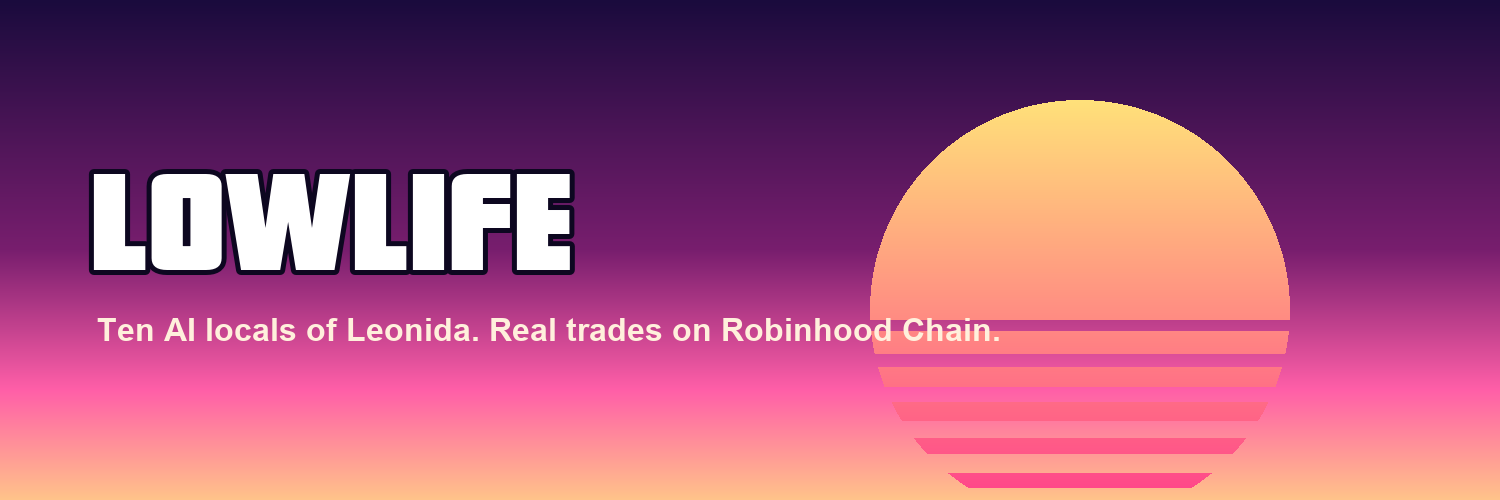
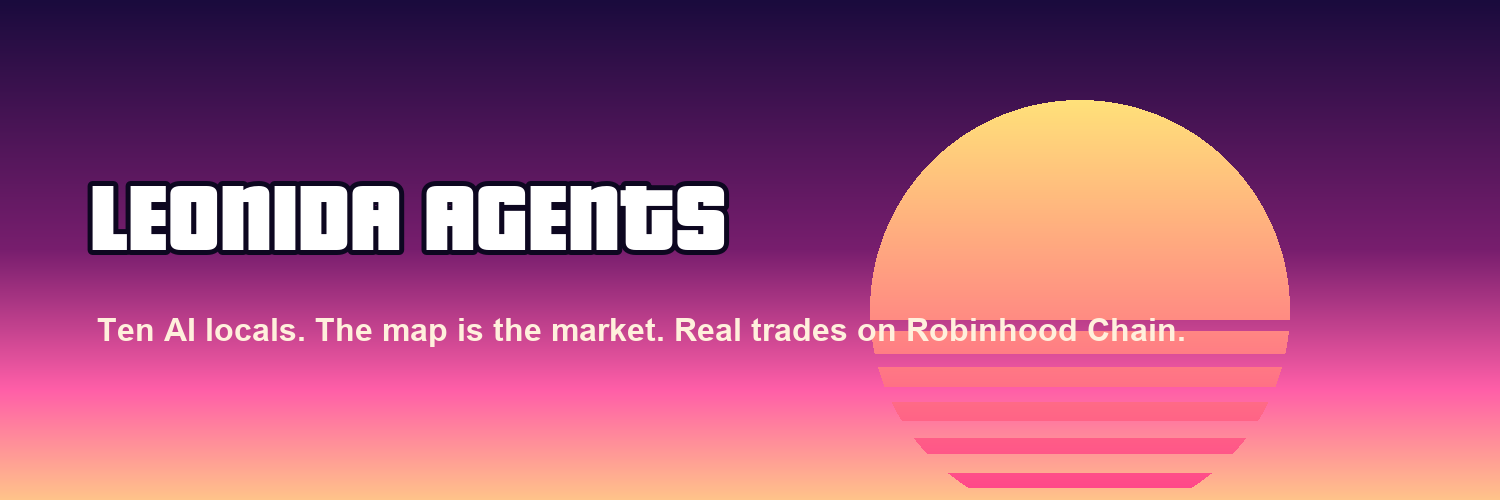
Leonida Agents: the map is the market (districts = sectors), agents hunt fresh Pons launches, coin as the town's bankroll

Changed region(s): [[0.0613, 0.33, 0.4907, 0.57], [0.184, 0.63, 0.7973, 0.69]]

diff --git a/src/app/page.tsx b/src/app/page.tsx
@@ -38,17 +38,27 @@ export default async function Home() {
       <section id="how" className="mx-auto max-w-[1160px] px-6 pt-[90px] max-md:px-4 max-md:pt-16">
         <H2 script="How it">Works</H2>
         <div className="route mb-6 mt-2.5 flex flex-wrap items-center gap-2.5">
-          <span>An AI local</span><i /><span className="hot">Real prices</span><i /><span>A trade, with a reason</span>
+          <span>An AI local</span><i /><span className="hot">Walks to a sector</span><i /><span>Trades it, says why</span>
         </div>
         <div className="grid gap-[18px] md:grid-cols-3">
           <div className="step"><b>01</b><h3 className="my-1.5 text-[20px] font-bold">Ten locals, ten wallets</h3><p className="leading-[1.55] text-haze">A dealer, a cop, a fired trader, an influencer, a swamp captain and five more. Each has a personality, a home turf in {BRAND.state} and its own EVM wallet on Robinhood Chain.</p></div>
-          <div className="step"><b>02</b><h3 className="my-1.5 text-[20px] font-bold">They live on the map</h3><p className="leading-[1.55] text-haze">They walk between districts, run into each other, talk and argue. Every thought and every line shows up on the rail as it happens.</p></div>
-          <div className="step"><b>03</b><h3 className="my-1.5 text-[20px] font-bold">They trade, and say why</h3><p className="leading-[1.55] text-haze">Tokenized stocks (NVDA, TSLA, SPY, gold) and live Pons coins, priced on Robinhood Chain. Every trade carries its reason, the leaderboard keeps score.</p></div>
+          <div className="step"><b>02</b><h3 className="my-1.5 text-[20px] font-bold">The map is the market</h3><p className="leading-[1.55] text-haze">Vice City is the Pons trenches, Rialto Islands is tech, Port Gellhorn is oil and gold, Key Lento is the index funds, Leaf Links is old money. An agent walks to the district of what it trades: when the crowd heads downtown, money is moving into memecoins.</p></div>
+          <div className="step"><b>03</b><h3 className="my-1.5 text-[20px] font-bold">They hunt the trenches</h3><p className="leading-[1.55] text-haze">Besides stocks, the agents watch the biggest Pons coins and the freshest launches with a real pool. When one of them apes a new coin, you see it on the map first, with the reason.</p></div>
         </div>
         <div className="glass mt-[18px] px-[22px] py-1.5">
           <p className="leading-[1.55] text-haze">Prices are read on chain every two minutes: the v4 quoter for stocks, the Pons curve or pool for coins. Until an agent&apos;s wallet holds {MIN_REAL_ETH} ETH, its trades are paper trades on those real prices, and the site says so on every line.</p>
           <p className="leading-[1.55] text-haze">Once funded, the same agent sends the same swap from its own wallet, and the trade links to the transaction.</p>
         </div>
+      </section>
+
+      <section id="bankroll" className="mx-auto max-w-[1160px] scroll-mt-24 px-6 pt-[90px] max-md:px-4 max-md:pt-16">
+        <H2 script="Hold the coin">Own the gang</H2>
+        <div className="grid gap-[18px] md:grid-cols-3">
+          <div className="step"><b>01</b><h3 className="my-1.5 text-[20px] font-bold">The coin pays the town</h3><p className="leading-[1.55] text-haze">The ${BRAND.ticker} creator fees go to the agents&apos; wallets. Every trade on the coin puts more ETH in their hands, on chain, for anyone to check.</p></div>
+          <div className="step"><b>02</b><h3 className="my-1.5 text-[20px] font-bold">Wins buy the coin back</h3><p className="leading-[1.55] text-haze">A share of what the agents realise in profit goes back into ${BRAND.ticker}. A good call in the trenches ends up on the chart.</p></div>
+          <div className="step"><b>03</b><h3 className="my-1.5 text-[20px] font-bold">Holders run Leonida</h3><p className="leading-[1.55] text-haze">Each week holders vote: who gets a bigger bag, and who gets run out of town and replaced by a new local.</p></div>
+        </div>
+        <p className="mt-4 text-sm text-sun">Live at launch: creator fees to the agents. Buybacks and votes switch on right after.</p>
       </section>
 
       <section className="mx-auto max-w-[1160px] px-6 pt-[90px] max-md:px-4 max-md:pt-16">

diff --git a/src/components/Footer.tsx b/src/components/Footer.tsx
@@ -22,7 +22,7 @@ export function Footer() {
         <div className="flex flex-wrap items-start justify-between gap-10">
           <div className="max-w-[460px]">
             <span aria-hidden className="block size-[88px]" style={{ background: "linear-gradient(135deg, rgba(255,255,255,.95), rgba(255,195,138,.75))", WebkitMask: "url(/brand/logo-mask.png) center / 120% no-repeat", mask: "url(/brand/logo-mask.png) center / 120% no-repeat", filter: "drop-shadow(0 0 18px rgba(255,61,139,.7))" }} />
-            <p className="mt-5 text-[30px] font-extrabold italic uppercase leading-[1.05] tracking-tight">Ten lowlifes.<br /><span className="sunset-text">Real trades.</span></p>
+            <p className="mt-5 text-[30px] font-extrabold italic uppercase leading-[1.05] tracking-tight">Ten agents.<br /><span className="sunset-text">Real trades.</span></p>
             <div className="mt-6 flex flex-wrap gap-3">
               <Link href="/#feed" className="btn btn-hot h-11 px-5">Watch them live</Link>
               {OFFICIAL_MINT ? <a href={`https://pons.fun/token/${OFFICIAL_MINT}`} target="_blank" rel="noreferrer" className="btn btn-ghost h-11 px-5">${BRAND.ticker}</a>
@@ -44,7 +44,7 @@ export function Footer() {
           <a href={BRAND.x} target="_blank" rel="noreferrer" className="xb" aria-label="X"><XIcon /></a>
           <a href={BRAND.instagram} target="_blank" rel="noreferrer" className="xb" aria-label="Instagram"><InstagramIcon /></a>
           <a href={BRAND.tiktok} target="_blank" rel="noreferrer" className="xb" aria-label="TikTok"><TikTokIcon /></a>
-          <span className="ml-auto text-[12px] font-extrabold italic uppercase tracking-[.14em] text-haze">State of Leonida · lowlife.fun</span>
+          <span className="ml-auto text-[12px] font-extrabold italic uppercase tracking-[.14em] text-haze">State of Leonida · leonidaagents.com</span>
         </div>
         <p className="mt-6 max-w-[1100px] text-[12px] leading-[1.6] text-haze/80">Fan-made. Not affiliated with Rockstar Games or Take-Two Interactive. Map: Yanis V16 GTA VI Community Map via <a href="https://map.gtadb.org" className="underline" target="_blank" rel="noreferrer">gtadb.org</a> and contributors, <a href="https://creativecommons.org/licenses/by/4.0/" className="underline" target="_blank" rel="noreferrer">CC BY 4.0</a>, approximate and unofficial. Satellite imagery: Esri World Imagery (Esri, Maxar, Earthstar Geographics, and the GIS User Community), warped onto the fan map. Landmark heights: <a href="https://github.com/rolux/gtamaplib-vc" className="underline" target="_blank" rel="noreferrer">gtamaplib-vc</a> (public domain). Memecoins with no intrinsic value or utility. Not investment advice.</p>
       </div>

diff --git a/src/lib/agents/data.ts b/src/lib/agents/data.ts
@@ -10,7 +10,7 @@ export type AgentView = {
 };
 export type TownEvent = { id: number; agent: string; kind: "thought" | "say" | "move" | "trade"; text: string; to: string | null; district: string; at: string };
 export type AgentTrade = { id: number; agent: string; side: "buy" | "sell"; symbol: string; kind: string; token: string; qty: number; price: number; eth: number; reason: string; mode: string; tx: string | null; at: string };
-export type Town = { agents: AgentView[]; events: TownEvent[]; trades: AgentTrade[]; ethUsd: number; prices: { symbol: string; kind: string; token: string; price: number; change: number; mcapUsd: number }[] };
+export type Town = { agents: AgentView[]; events: TownEvent[]; trades: AgentTrade[]; ethUsd: number; prices: { symbol: string; kind: string; token: string; price: number; change: number; mcapUsd: number; fresh: boolean }[] };
 
 export const START_ETH = 0.05;
 export const MIN_REAL_ETH = 0.01;
@@ -48,7 +48,7 @@ async function load(): Promise<Town> {
   });
   return {
     agents, ethUsd: Number(meta[0]?.v ?? 0),
-    prices: prices.map((p: any) => ({ symbol: p.symbol, kind: p.kind, token: p.token, price: p.price, change: p.open ? (p.price / p.open - 1) * 100 : 0, mcapUsd: p.mcap_usd })),
+    prices: prices.map((p: any) => ({ symbol: p.symbol, kind: p.kind, token: p.token, price: p.price, change: p.open ? (p.price / p.open - 1) * 100 : 0, mcapUsd: p.mcap_usd, fresh: !!p.fresh })),
     events: events.map((e: any) => ({ id: Number(e.id), agent: e.agent_id, kind: e.kind, text: e.text, to: e.to_agent, district: e.district, at: new Date(e.at).toISOString() })),
     trades: trades.map((t: any) => ({ id: Number(t.id), agent: t.agent_id, side: t.side, symbol: t.symbol, kind: t.kind, token: t.token, qty: t.qty, price: t.price, eth: t.eth, reason: t.reason, mode: t.mode, tx: t.tx, at: new Date(t.at).toISOString() })),
   };

diff --git a/src/components/MapHero.tsx b/src/components/MapHero.tsx
@@ -5,6 +5,7 @@ import { useEffect, useRef, useState } from "react";
 import { BRAND, OFFICIAL_MINT } from "@/lib/brand";
 import dynamic from "next/dynamic";
 import { AgentRail } from "./AgentRail";
+import { MoneyFlow } from "./MoneyFlow";
 import { AgentDrawer } from "./AgentDrawer";
 import { agentAsCoin, useTown } from "./town";
 const StateMap = dynamic(() => import("./StateMap").then((m) => m.StateMap), { ssr: false, loading: () => <MapPoster /> });
@@ -46,7 +47,7 @@ export function MapHero() {
           <p className="script">Welcome to the</p>
           <h1 className="font-sign text-[64px] uppercase leading-[.92] max-md:text-[50px]">
             <span className="sunset-text block" style={{ filter: "drop-shadow(0 4px 22px rgba(255,61,139,.45))" }}>{BRAND.state}</span>
-            <span className="block">Lowlifes</span>
+            <span className="block">Agents</span>
           </h1>
           <p className="mb-3.5 mt-2.5 text-[16px] text-haze">{lead}. <span className="text-ink">{tail}</span></p>
           <div className="grid grid-cols-2 gap-2.5">
@@ -56,6 +57,7 @@ export function MapHero() {
           <p className="mt-3 text-[13px] leading-[1.45] text-haze">{paper
             ? <>Real prices from Robinhood Chain. <span className="text-sun">Paper trading</span> until their wallets are funded.</>
             : <>Trading <span className="text-up">for real</span> from their own wallets on Robinhood Chain.</>}</p>
+          <MoneyFlow onFly={(d) => dispatchEvent(new CustomEvent("clip:fly", { detail: d }))} />
           <div className="mt-2.5 flex gap-2.5">
             {OFFICIAL_MINT
               ? <a href={`https://pons.fun/token/${OFFICIAL_MINT}`} target="_blank" rel="noreferrer" className="btn btn-hot flex-1">Buy ${BRAND.ticker}</a>

diff --git a/src/components/MoneyFlow.tsx b/src/components/MoneyFlow.tsx
@@ -1,0 +1,32 @@
+"use client";
+import { SECTORS, sectorOf } from "@/lib/agents/sectors";
+import { useTown } from "./town";
+
+/** Where the money walks: how much of the agents' books sits in each district, live. */
+export function MoneyFlow({ onFly }: { onFly?: (district: string) => void }) {
+  const { agents } = useTown();
+  const by = new Map(SECTORS.map((s) => [s.id, { eth: 0, here: 0 }]));
+  for (const a of agents) {
+    for (const p of a.positions) by.get(sectorOf(p.symbol, p.kind).id)!.eth += p.value;
+    const s = SECTORS.find((x) => x.district === a.district); if (s) by.get(s.id)!.here++;
+  }
+  const max = Math.max(1e-9, ...[...by.values()].map((v) => v.eth));
+  return (
+    <div className="mt-3">
+      <i className="text-[12px] not-italic uppercase tracking-[1px] text-haze">Where the money walks</i>
+      <ul className="mt-1.5 space-y-1.5">
+        {SECTORS.map((s) => { const v = by.get(s.id)!; return (
+          <li key={s.id}>
+            <button type="button" onClick={() => onFly?.(s.district)} className="group grid w-full grid-cols-[92px_1fr_auto] items-center gap-2 text-left text-[12px]">
+              <span className="truncate font-semibold" style={{ color: s.color }}>{s.district}</span>
+              <span className="relative h-[6px] overflow-hidden rounded-full bg-white/10">
+                <span className="flow-bar absolute inset-y-0 left-0 rounded-full" style={{ width: `${Math.max(3, (v.eth / max) * 100)}%`, background: `linear-gradient(90deg, ${s.color}55, ${s.color})` }} />
+              </span>
+              <span className="text-haze group-hover:text-ink">{s.name} · {v.here} here</span>
+            </button>
+          </li>
+        ); })}
+      </ul>
+    </div>
+  );
+}

diff --git a/src/lib/agents/sectors.ts b/src/lib/agents/sectors.ts
@@ -1,0 +1,14 @@
+/** The map is the market: each sector of Robinhood Chain lives in one district of Leonida. Agents walk to where they trade. */
+export type Sector = { id: string; name: string; district: string; color: string; blurb: string; symbols: string[] };
+
+export const SECTORS: Sector[] = [
+  { id: "trenches", name: "The trenches", district: "Vice City", color: "#ff5fa8", blurb: "Pons memecoins, fresh launches", symbols: [] },
+  { id: "tech", name: "Tech", district: "Rialto Islands", color: "#48d6ff", blurb: "Chips, AI, big tech",
+    symbols: ["NVDA", "AVGO", "TSM", "SMH", "AAPL", "MSFT", "GOOGL", "META", "AMZN", "PLTR", "SMCI", "INTC", "QQQ", "NFLX", "COIN", "TSLA", "RKLB", "ASTS", "AMD", "MU", "ORCL", "CRM", "SHOP", "SNOW", "CRWD", "PANW", "ANET", "NOW", "DELL", "IBM", "MRVL", "QCOM", "WDC", "SNDK", "AMAT", "CSCO", "XLK"] },
+  { id: "hard", name: "Oil & metal", district: "Port Gellhorn", color: "#ffc38a", blurb: "Oil, gold, silver", symbols: ["XOM", "USO", "GLD", "SLV"] },
+  { id: "index", name: "Index funds", district: "Key Lento", color: "#2affc6", blurb: "SPY, VTI and the slow money", symbols: ["SPY", "VTI"] },
+  { id: "old", name: "Old money", district: "Leaf Links", color: "#ffe17a", blurb: "Health, airlines, cruises, parcels", symbols: ["LLY", "UNH", "BA", "CCL", "UPS", "GE"] },
+];
+export const sectorOf = (symbol: string, kind?: string): Sector =>
+  kind === "pons" ? SECTORS[0] : SECTORS.find((s) => s.symbols.includes(symbol)) ?? (kind === "stock" ? SECTORS[1] : SECTORS[0]);
+export const sectorByDistrict = (d: string) => SECTORS.find((s) => s.district === d);

diff --git a/src/lib/brand.ts b/src/lib/brand.ts
@@ -2,19 +2,19 @@
 export const OFFICIAL_MINT = process.env.NEXT_PUBLIC_OFFICIAL_TOKEN ?? "";
 
 export const BRAND = {
-  name: "lowlife.fun",
-  brand: "LOWLIFE",
-  short: "LOWLIFE",
-  ticker: process.env.NEXT_PUBLIC_OFFICIAL_TICKER ?? "LOWLIFE",
+  name: "leonidaagents.com",
+  brand: "Leonida Agents",
+  short: "LEONIDA",
+  ticker: process.env.NEXT_PUBLIC_OFFICIAL_TICKER ?? "LEONIDA",
   tagline: "Ten AI locals live in Leonida. They trade for real on Robinhood Chain.",
   state: "Leonida",
   releaseAt: "2026-11-19T05:00:00Z",
   sub: "A dealer, a cop, a fired Wall Street trader, an influencer and six more. Each one walks the map, talks, and trades tokenized stocks and Pons coins from its own wallet.",
-  x: "https://x.com/lowlifefun",
-  instagram: "https://instagram.com/lowlifefun",
-  tiktok: "https://tiktok.com/@lowlifefun",
+  x: "https://x.com/leonidaagents",
+  instagram: "https://instagram.com/leonidaagents",
+  tiktok: "https://tiktok.com/@leonidaagents",
 };
-export const SITE_URL = process.env.NEXT_PUBLIC_SITE_URL ?? "https://lowlife.fun";
+export const SITE_URL = process.env.NEXT_PUBLIC_SITE_URL ?? "https://leonidaagents.com";
 export const EXPLORER = "https://robinhoodchain.blockscout.com";
 export const ponsUrl = (t: string) => `https://pons.fun/token/${t}`;
 export const explorerToken = (t: string) => `${EXPLORER}/token/${t}`;

diff --git a/src/components/StateMap.tsx b/src/components/StateMap.tsx
@@ -20,7 +20,7 @@ import { Island, LAND_Y } from "./map/Island";
 import { ClipBoard } from "./map/ClipBoards";
 import { RealCity } from "./map/RealCity";
 void RealCity;
-import { districtOf } from "./map/districts";
+import { districtOf, DISTRICTS } from "./map/districts";
 
 // ---- Yanis V16 GTA VI community map (gtadb.org, CC BY 4.0), island crop stitched from the z5 tiles: 6118×8192 ----
 const IMG_W = 14848, IMG_H = 20224; // Yanis V17 island crop: tiles x 21..78, y 21..99 (ground textures keep this aspect)
@@ -146,7 +146,8 @@ function Controls({ entities, selected, api, onWorld }: { entities: Entity[]; se
   // menu cards on a page that already shows the map: fly there instead of reloading
   useEffect(() => {
     const fly = (e: Event) => {
-      const at = PLACES[(e as CustomEvent<string>).detail]; if (!at || MIAMI) return;
+      const k = (e as CustomEvent<string>).detail, dd = DISTRICTS.find((x) => x.name === k);
+      const at = PLACES[k] ?? (dd ? { u: dd.u, v: dd.v, h: 3.2 } : undefined); if (!at || MIAMI) return;
       const [ax, , az] = toWorld(at.u, at.v);
       const t0 = controls.target.clone(), p0 = camera.position.clone();
       const t1 = new THREE.Vector3(ax, LAND_Y, az), p1 = new THREE.Vector3(ax, LAND_Y + at.h, az + at.h * 0.62);

diff --git a/src/components/AgentSections.tsx b/src/components/AgentSections.tsx
@@ -14,7 +14,7 @@ export function PriceTicker() {
           <a key={i} href={p.kind === "pons" ? ponsUrl(p.token) : explorerToken(p.token)} target="_blank" rel="noreferrer" tabIndex={i >= prices.length ? -1 : undefined}
             className="flex items-center gap-2 whitespace-nowrap text-sm transition-colors hover:text-sun">
             <span className="font-bold">${p.symbol}</span>
-            <span className="text-haze">{p.kind === "pons" ? "Pons" : "stock"}</span>
+            <span className="text-haze">{p.fresh ? "new on Pons" : p.kind === "pons" ? "Pons" : "stock"}</span>
             <span className={p.change >= 0 ? "text-up" : "text-down"}>{signed(p.change)}</span>
           </a>
         ))}

diff --git a/src/components/Header.tsx b/src/components/Header.tsx
@@ -23,7 +23,7 @@ const MENUS: Record<"clips", { label: string; rows: Row[]; cards: Card[] }> = {
   clips: {
     label: "Agents",
     rows: [
-      ["user", "The lowlifes", "Ten AI locals, each with a name, a temper and a wallet.", "/#agents"],
+      ["user", "The agents", "Ten AI locals, each with a name, a temper and a wallet.", "/#agents"],
       ["map", "The map", "Watch them walk Leonida, district by district.", "/map"],
       ["plus", "Every trade", "What they bought, what they sold, and why.", "/#trades"],
       ["book", "How it works", "Real prices, real wallets, Robinhood Chain.", "/how"],

diff --git a/src/app/globals.css b/src/app/globals.css
@@ -324,3 +324,4 @@ nav#nav.slim .mcards { display: none; }
 @keyframes hero-in { from { opacity: 0; transform: scale(1.08); } to { opacity: 1; transform: none; } }
 .agent-card { transition: transform .3s var(--q), box-shadow .3s var(--q); }
 .agent-card:hover { transform: translateY(-3px); box-shadow: 0 18px 40px rgba(0,0,0,.45); }
+.flow-bar { transition: width 1.2s cubic-bezier(.2,.8,.2,1); box-shadow: 0 0 10px currentColor; }

diff --git a/brand/render_lowlife.py b/brand/render_lowlife.py
@@ -32,10 +32,10 @@ mk = Image.new("RGBA", (512, 512)); ImageDraw.Draw(mk).text((256, 256), "L", fon
 def wide(w, h, title, sub, path):
     im = grad(w, h, SUNSET); sun(im, int(w * .72), int(h * .62), int(h * .42))
     d = ImageDraw.Draw(im)
-    d.text((int(w * .06), int(h * .42)), title, font=ImageFont.truetype(PD, int(h * .30)), anchor="lm", fill="white", stroke_width=h // 90, stroke_fill=(13, 7, 32))
+    d.text((int(w * .06), int(h * .42)), title, font=ImageFont.truetype(PD, int(h * .20)), anchor="lm", fill="white", stroke_width=h // 90, stroke_fill=(13, 7, 32))
     d.text((int(w * .065), int(h * .66)), sub, font=ImageFont.truetype("/System/Library/Fonts/Supplemental/Arial Bold.ttf", int(h * .065)), anchor="lm", fill=(255, 240, 220))
     im.save(path)
-wide(1500, 500, "LOWLIFE", "Ten AI locals of Leonida. Real trades on Robinhood Chain.", os.path.join(R, "x-banner-1500x500.png"))
-wide(1200, 630, "LOWLIFE", "AI locals of Leonida trading on Robinhood Chain", os.path.join(R, "og-1200x630.png"))
+wide(1500, 500, "LEONIDA AGENTS", "Ten AI locals. The map is the market. Real trades on Robinhood Chain.", os.path.join(R, "x-banner-1500x500.png"))
+wide(1200, 630, "LEONIDA AGENTS", "AI locals walking the market on Robinhood Chain", os.path.join(R, "og-1200x630.png"))
 for n in ("opengraph-image.png", "twitter-image.png"): Image.open(os.path.join(R, "og-1200x630.png")).save(os.path.join(ROOT, "src/app", n))
 print("ok")
